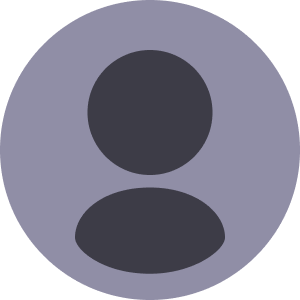
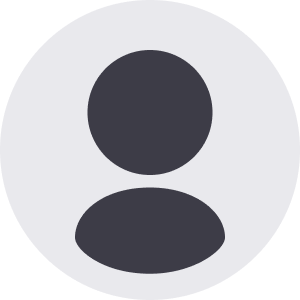
updted colors and user image

diff --git a/src/components/sections/home4-testimonials.tsx b/src/components/sections/home4-testimonials.tsx
@@ -5,17 +5,17 @@ import Feedback from "@/lib/data/testimonials";
 
 const Testimonials = () => {
   return (
-    <Section className="bg-black" id="last">
+    <Section className="bg-powder-blue-500" id="last">
       <div className="container flex flex-col items-center text-white gap-y-12">
         <div className="flex flex-col gap-y-6 items-center ">
           <p className="text-3xl text-white md:text-5xl font-bold text-center">
-            <span className="text-pink">Excellence</span> is a continuous
-            journey
+            <span className="text-soft-pink-200">Excellence</span> is a
+            continuous journey
           </p>
           <p className="text-white text-center max-w-[90%] md:max-w-[60%]">
-            and your <span className="highlighted-text">feedback</span> is the
-            fuel that keeps me striving for it. It empowers me to embrace
-            challenges, learn from experiences, and continuously raise the bar.
+            and your feedback is the fuel that keeps me striving for it. It
+            empowers me to embrace challenges, learn from experiences, and
+            continuously raise the bar.
           </p>
         </div>
         <EmblaCarousel items={Feedback} />
